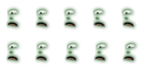
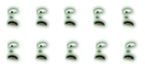
player blinks

diff --git a/game/obj.py b/game/obj.py
@@ -1,3 +1,5 @@
+from random import expovariate
+
 import pygame as pg
 from pygame import Rect
 
@@ -26,8 +28,10 @@ class Player (object):
         if level.move_channel is not None:
             level.move_channel.pause()
         self.img = level.game.img('player.png')
-        self.f_img = level.game.img('player-features.png')
-        self.f_img_reversed = pg.transform.flip(self.f_img, True, False)
+        self.f_imgs = [level.game.img('player-features.png'),
+                       level.game.img('player-features-blinking.png')]
+        self.f_imgs = [(img, pg.transform.flip(img, True, False))
+                       for img in self.f_imgs]
         self.sfc = pg.Surface(self.img_size).convert_alpha()
         self.dirn = True
         self.last_dirn = None
@@ -37,6 +41,8 @@ class Player (object):
         self.squash_v = [0, 0, 0, 0]
         self.squash = [0, 0, 0, 0]
         self.last_scale = None
+        self.blinking = -1
+        self.last_blinking = None
 
     def impact (self, axis, v = None, dv = None):
         if dv is None:
@@ -135,6 +141,13 @@ class Player (object):
             squash_v[i] *= e
             squash_v[i] -= k * squash[i]
             squash[i] += squash_v[i]
+        # blink (< 0 means blinking, > 0 not)
+        b = self.blinking
+        if b in (1, -1):
+            b = -b * (2 + int(expovariate(.3 if b == 1 else .002)))
+        else:
+            b -= 1 if b > 0 else -1
+        self.blinking = b
 
     def pre_draw (self):
         ox, oy = conf.PLAYER_OFFSET
@@ -145,21 +158,23 @@ class Player (object):
         dirn = self.dirn
         skew = ir(self.skew)
         skew = (1 if skew > 0 else -1) * min(abs(skew), conf.PLAYER_MAX_SKEW)
-        if skew != self.last_skew or dirn != self.last_dirn:
+        blinking = self.blinking
+        if skew != self.last_skew or dirn != self.last_dirn \
+           or (blinking < 0) != self.last_blinking:
             sfc.fill((0, 0, 0, 0))
             x0, y0 = w0 * abs(skew), h0 if skew > 0 else 0
             sfc.blit(self.img, (0, 0), (x0, y0, w0, h0))
+            f_img = self.f_imgs[blinking < 0][dirn]
             if dirn:
                 # facing right
-                f_img = self.f_img_reversed
                 x0 = w0 * (conf.PLAYER_MAX_SKEW - abs(skew))
                 # use opposite skew
                 y0 = 0 if skew > 0 else h0
-            else:
-                f_img = self.f_img
             sfc.blit(f_img, (0, 0), (x0, y0, w0, h0))
             self.last_scale = None
             self.last_skew = skew
+            self.last_dirn = dirn
+            self.last_blinking = blinking < 0
         # scale
         x0, y0, x1, y1 = self.squash
         w = w0 - x0 - x1
